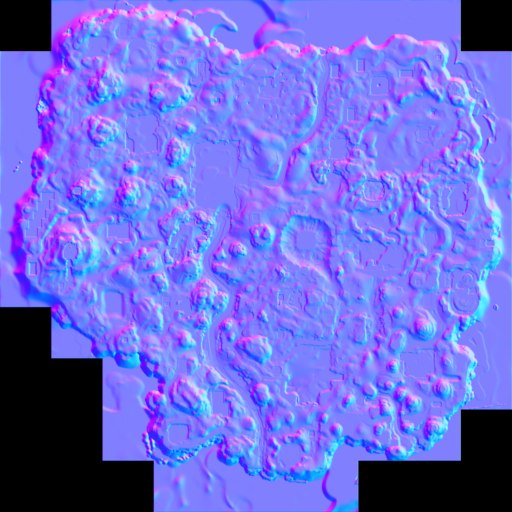
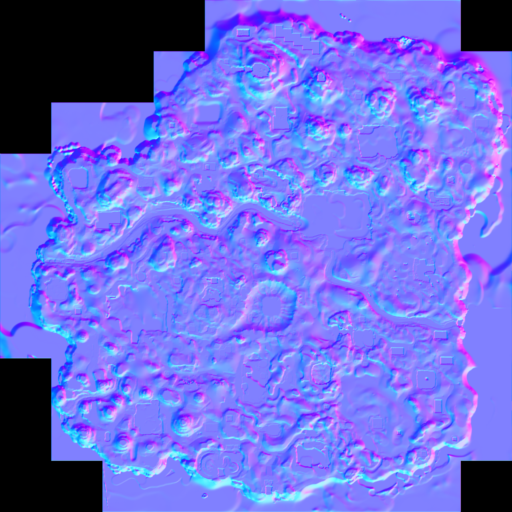
fix fortnite map orientation (normals should not be rotated)

diff --git a/fortnite-tga-slice.py b/fortnite-tga-slice.py
@@ -193,7 +193,7 @@ map_size_info  = ['1.2k'][0]
 
 normal_stitched_path = os.path.join(output_path, 'fortnite_' + mapIdentifier + '_' + normal_semantic + '_lod' + str(lod) + '.png')
 print (normal_stitched_path, 'saving', map_size_info, 'normal map ... hang in there')
-normal_composite = normal_composite.transpose(Image.ROTATE_90)
+# normal_composite = normal_composite.transpose(Image.ROTATE_90)
 normal_composite.save(normal_stitched_path, 'PNG', compress_level = min(9, compress), optimize = compress == 10)
 
 if args.thumbnail:
@@ -204,7 +204,7 @@ if args.thumbnail:
 
 height_stitched_path = os.path.join(output_path, 'fortnite_' + mapIdentifier + '_' + height_semantic + '_lod' + str(lod) + '.png')
 print (height_stitched_path, 'saving', map_size_info, 'height map ... hang in there')
-height_composite = height_composite.transpose(Image.ROTATE_90)
+# height_composite = height_composite.transpose(Image.ROTATE_90)
 height_composite.save(height_stitched_path, 'PNG', compress_level = min(9, compress), optimize = compress == 10)
 
 if args.thumbnail:
